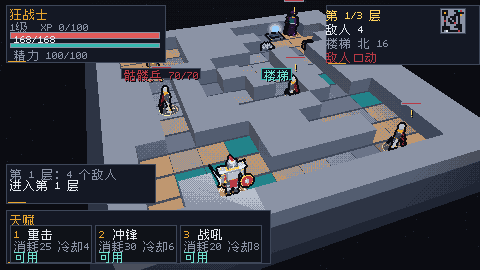
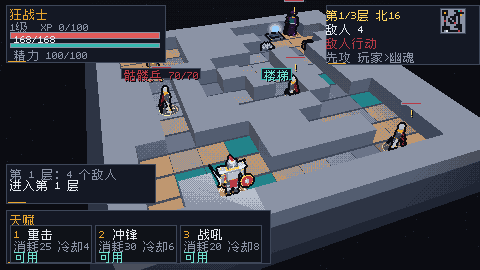
feat: show initiative order in the top-right card

Changed region(s): [[0.6562, 0.1481, 0.875, 0.237], [0.7188, 0.0296, 0.8438, 0.0889]]

diff --git a/README.md b/README.md
@@ -16,7 +16,7 @@
 - **升级加点**：升级获得 1 点，C 面板按 1-6 加力量/敏捷/体质/感知/魔力/意志；自动跑局自动加主属性。
 - **属性/装备/掉落**：六属性、HP/资源、攻击/护甲/暴击/速度；宝箱和击杀产出版本内物品，空槽自动装备，装备即时改变面板数值。
 - **天赋瞄准**：1/2/3 先进入瞄准，显示目标/距离/预计伤害/范围；空格/同键/左键确认，Esc 取消，Tab 换目标；火球可点地面格，AOE 范围环实时预览；超距/无视线/缺资源红色提示。
-- **敌人阶段**：玩家行动后 HUD 显示“敌人行动”，锁定输入约 0.3 秒再结算敌人移动/攻击；自动跑局和 QA 仍即时结算。
+- **敌人阶段/先攻**：玩家行动后 HUD 显示“敌人行动”，锁定输入约 0.3 秒再结算敌人移动/攻击；顶栏同时显示“先攻 玩家>最快敌人”，与敌人阶段的速度排序一致。自动跑局和 QA 仍即时结算。
 - **存档/读档**：F5 写 saves/tome-run.json（Sim 全状态 + RNG）和 saves/tome-gear.json（背包/装备）；F9 两次确认后读取；坏档不覆盖当前局。
 - **中文 HUD（常驻面板 <30%）**：角色卡、楼层卡、战斗日志、天赋栏、角色/背包面板；背包显示品质/属性摘要，天赋栏显示消耗、基础冷却和当前状态（可用/冷却中/缺资源），角色面板可复查。H 打开操作说明。Ark Pixel 12px 子集。
 - **3D 像素场景**：地牢地砖、墙、楼梯、宝箱、陷阱、精英和 Boss 模型；脚底环、目标血条、危险标记、楼梯光柱。
@@ -149,7 +149,7 @@ docs/           TOME_V1 / SAVE / ART_PASS / UX_REVIEW_TOME / screenshots
 
 ## 验证
 
-- zig build / zig build test：13/13 steps、139/139 tests。
+- zig build / zig build test：13/13 steps、140/140 tests。
 - headless：可生成职业菜单/开始/战斗/角色/背包/胜利截图；`--start-menu` 输出 `docs/screenshots/tome_select.png`。
 - 职业菜单显示的 SEED 就是本局真实 seed；选择职业只按同一 seed 重开，R 重开保持职业和 seed。
 - 自动跑局（seed 12345）：三职业均可通关；狂战士约第 100 回合剩 66 HP，元素法师第 75 回合、时空法师第 84 回合。

diff --git a/docs/QA_TOME2.md b/docs/QA_TOME2.md
@@ -160,6 +160,6 @@ zig build test-qa --summary all
 | 超时 | 0 | 0 | 0 | 0 |
 
 - 固定 seed 12345 三职业均通关：狂战士第 100 回合剩 66 HP、元素法师第 75 回合剩 61 HP、时空法师第 84 回合剩 69 HP。
-- zig build test：139/139；zig build test-qa：80/80；0 不变量违规；stairs_wins=0，193 胜全部来自 Boss 击杀。
+- zig build test：140/140；zig build test-qa：80/80；0 不变量违规；stairs_wins=0，193 胜全部来自 Boss 击杀。
 - 速度带已启用：精英幽魂 150（每 2 回合多一次行动），石魔像 70（每 2 回合跳过行动）。
 - 旧第 6.1/6.2 节保留为“AOE 不可躲”时期的历史基线；本节取代其通关率结论。README 已同步。
